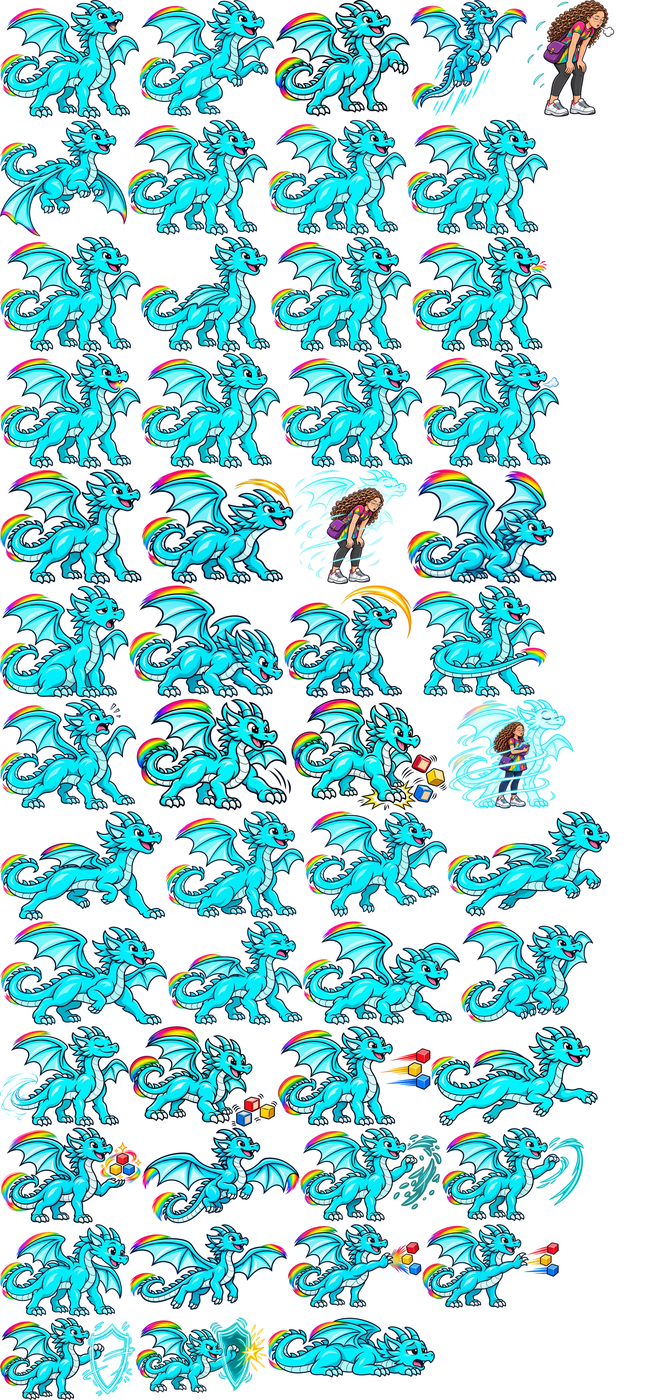
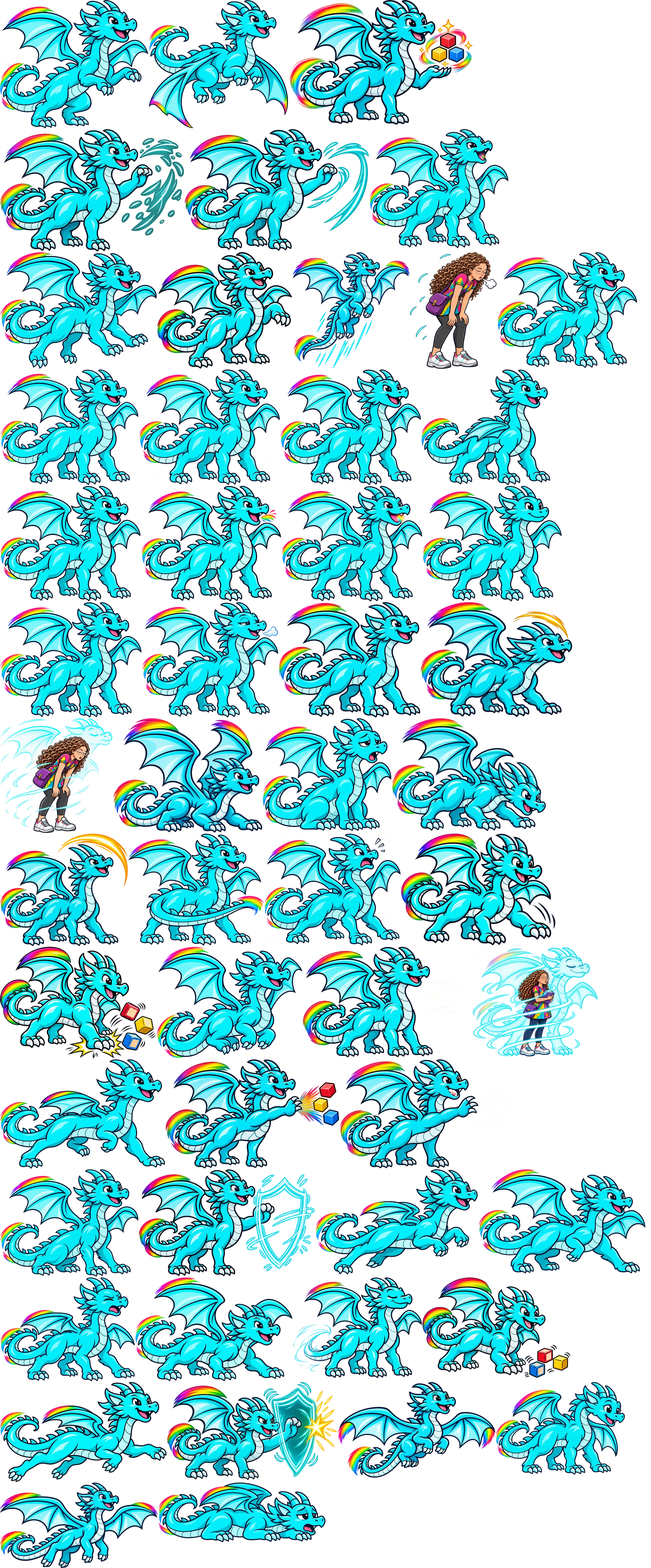
Morris Mayhem: all four controllers work; dragon Block Barrage and jump fixes
- Controllers: Controller 1-4 are now the 1st-4th controllers actually
  plugged in (MM.pads). Browsers can number pads with gaps (e.g. 0, 3, 4, 5),
  and slots 1 and 2 were read from empty browser slots, so only P1 and P4
  could move their pointer or fighter. A controller pressing X can now also
  take over a player slot set to an unplugged controller or a keyboard.
- Siren's dragon: after the blocks launch she shows the empty-handed poses
  (painted blocks erased, tools/erase_blocks.py) so they don't double up with
  the flying blocks; her barrage, shield and jump rows were drawn smaller
  than idle and are now drawn bigger (still at or below 1:1).

Claude-Session: https://claude.ai/code/session_01RfvCk8BiTKNajYvhD14yr3

diff --git a/morris-mayhem/src/js/sprites.js b/morris-mayhem/src/js/sprites.js
@@ -1881,62 +1881,62 @@ MM.SPRITES['siren-dragon'] = {
   standH: 363,
   fscale: {"ent": 0.997, "taunt": 0.997, "win": 0.997, "lose": 0.997},
   frames: {
-    'prism0': [0, 0, 437, 375, 218.9, 375.1],
-    'jump0': [439, 0, 424, 367, 212.0, 367.2],
-    'stomp0': [865, 0, 424, 367, 196.2, 362.5],
-    'soar2': [1291, 0, 367, 367, 183.6, 367.2],
-    'back3': [1660, 0, 272, 367, 136.1, 367.2],
-    'jump1': [0, 377, 399, 366, 199.4, 366.8],
-    'atk0': [401, 377, 440, 365, 220.3, 365.4],
-    'idle1': [843, 377, 435, 364, 217.4, 364.3],
-    'idle3': [1280, 377, 443, 364, 221.8, 363.6],
-    'hurt3': [0, 745, 442, 364, 221.4, 364.0],
-    'atk2': [444, 745, 405, 364, 202.7, 365.0],
-    'atk3': [851, 745, 442, 364, 221.0, 364.3],
-    'prism1': [1295, 745, 440, 364, 220.0, 364.3],
-    'prism2': [0, 1111, 442, 364, 221.0, 364.7],
-    'prism3': [444, 1111, 437, 364, 218.5, 364.3],
-    'idle0': [883, 1111, 445, 363, 222.5, 364.0],
-    'idle2': [1330, 1111, 428, 363, 214.2, 363.2],
-    'horn3': [0, 1477, 445, 363, 270.7, 360.4],
-    'horn1': [447, 1477, 476, 361, 253.4, 358.2],
-    'back2': [925, 1477, 354, 361, 177.1, 361.1],
-    'soar0': [1281, 1477, 469, 360, 234.7, 360.4],
-    'tired1': [0, 1842, 404, 355, 202.3, 355.0],
-    'horn0': [406, 1842, 484, 355, 254.2, 352.4],
-    'horn2': [892, 1842, 402, 354, 223.9, 351.0],
-    'atk1': [1296, 1842, 426, 353, 212.8, 352.8],
-    'hurt0': [0, 2199, 428, 352, 214.2, 352.1],
-    'stomp1': [430, 2199, 485, 352, 273.6, 347.0],
-    'stomp2': [917, 2199, 490, 352, 216.7, 338.0],
-    'back1': [1409, 2199, 395, 346, 174.2, 344.2],
-    'run0': [0, 2553, 519, 344, 259.9, 344.2],
-    'tired3': [521, 2553, 435, 338, 217.4, 338.8],
-    'jump3': [958, 2553, 448, 333, 224.3, 333.4],
-    'run1': [1408, 2553, 510, 331, 255.2, 330.8],
-    'run3': [0, 2899, 525, 328, 262.8, 328.3],
-    'hurt1': [527, 2899, 424, 327, 212.4, 326.5],
-    'hurt2': [953, 2899, 494, 327, 247.3, 326.9],
-    'jump2': [1449, 2899, 417, 318, 208.4, 318.2],
-    'back0': [0, 3229, 405, 317, 207.7, 313.9],
-    'stomp3': [407, 3229, 465, 316, 191.2, 304.9],
-    'barrage3': [874, 3229, 480, 315, 206.6, 312.8],
-    'run2': [1356, 3229, 524, 314, 261.7, 313.9],
-    'barrage0': [0, 3548, 445, 302, 171.7, 299.9],
-    'soar1': [447, 3548, 495, 301, 247.7, 301.0],
-    'shield3': [944, 3548, 445, 296, 171.7, 293.8],
-    'shield0': [1391, 3548, 445, 294, 171.7, 292.7],
-    'tired0': [0, 3852, 406, 292, 203.0, 292.0],
-    'soar3': [408, 3852, 496, 269, 248.0, 269.3],
-    'barrage1': [906, 3852, 420, 264, 146.2, 262.1],
-    'barrage2': [1328, 3852, 430, 264, 156.6, 262.1],
-    'shield1': [0, 4146, 426, 259, 152.3, 256.3],
-    'shield2': [428, 4146, 412, 237, 138.2, 235.4],
-    'tired2': [842, 4146, 526, 188, 263.2, 188.3],
-    'ent': [883, 1111, 445, 363, 222.5, 364.0],
-    'taunt': [843, 377, 435, 364, 217.4, 364.3],
-    'win': [883, 1111, 445, 363, 222.5, 364.0],
-    'lose': [0, 745, 442, 364, 221.4, 364.0]
+    'jump0': [0, 0, 466, 404, 233.2, 403.9],
+    'jump1': [468, 0, 438, 403, 219.4, 403.5],
+    'barrage0': [908, 0, 579, 392, 223.2, 389.8],
+    'shield3': [0, 406, 579, 385, 223.2, 381.9],
+    'shield0': [581, 406, 579, 383, 223.2, 380.5],
+    'prism0': [1162, 406, 437, 375, 218.9, 375.1],
+    'jump3': [0, 793, 493, 367, 246.7, 366.7],
+    'stomp0': [495, 793, 424, 367, 196.2, 362.5],
+    'soar2': [921, 793, 367, 367, 183.6, 367.2],
+    'back3': [1290, 793, 272, 367, 136.1, 367.2],
+    'atk0': [1564, 793, 440, 365, 220.3, 365.4],
+    'idle1': [0, 1162, 435, 364, 217.4, 364.3],
+    'idle3': [437, 1162, 443, 364, 221.8, 363.6],
+    'hurt3': [882, 1162, 442, 364, 221.4, 364.0],
+    'atk2': [1326, 1162, 405, 364, 202.7, 365.0],
+    'atk3': [0, 1528, 442, 364, 221.0, 364.3],
+    'prism1': [444, 1528, 440, 364, 220.0, 364.3],
+    'prism2': [886, 1528, 442, 364, 221.0, 364.7],
+    'prism3': [1330, 1528, 437, 364, 218.5, 364.3],
+    'idle0': [0, 1894, 445, 363, 222.5, 364.0],
+    'idle2': [447, 1894, 428, 363, 214.2, 363.2],
+    'horn3': [877, 1894, 445, 363, 270.7, 360.4],
+    'horn1': [1324, 1894, 476, 361, 253.4, 358.2],
+    'back2': [0, 2259, 354, 361, 177.1, 361.1],
+    'soar0': [356, 2259, 469, 360, 234.7, 360.4],
+    'tired1': [827, 2259, 404, 355, 202.3, 355.0],
+    'horn0': [1233, 2259, 484, 355, 254.2, 352.4],
+    'horn2': [0, 2622, 402, 354, 223.9, 351.0],
+    'atk1': [404, 2622, 426, 353, 212.8, 352.8],
+    'hurt0': [832, 2622, 428, 352, 214.2, 352.1],
+    'stomp1': [1262, 2622, 485, 352, 273.6, 347.0],
+    'stomp2': [0, 2978, 490, 352, 216.7, 338.0],
+    'jump2': [492, 2978, 459, 349, 229.3, 350.1],
+    'barrage3': [953, 2978, 531, 348, 228.3, 345.7],
+    'back1': [1486, 2978, 395, 346, 174.2, 344.2],
+    'run0': [0, 3332, 519, 344, 259.9, 344.2],
+    'barrage1': [521, 3332, 546, 343, 190.0, 340.7],
+    'barrage2': [1069, 3332, 559, 343, 203.6, 340.7],
+    'tired3': [0, 3678, 435, 338, 217.4, 338.8],
+    'shield1': [437, 3678, 554, 336, 198.0, 333.2],
+    'run1': [993, 3678, 510, 331, 255.2, 330.8],
+    'run3': [1505, 3678, 525, 328, 262.8, 328.3],
+    'hurt1': [0, 4018, 424, 327, 212.4, 326.5],
+    'hurt2': [426, 4018, 494, 327, 247.3, 326.9],
+    'back0': [922, 4018, 405, 317, 207.7, 313.9],
+    'stomp3': [1329, 4018, 465, 316, 191.2, 304.9],
+    'run2': [0, 4347, 524, 314, 261.7, 313.9],
+    'shield2': [526, 4347, 535, 308, 179.7, 306.1],
+    'soar1': [1063, 4347, 495, 301, 247.7, 301.0],
+    'tired0': [1560, 4347, 406, 292, 203.0, 292.0],
+    'soar3': [0, 4663, 496, 269, 248.0, 269.3],
+    'tired2': [498, 4663, 526, 188, 263.2, 188.3],
+    'ent': [0, 1894, 445, 363, 222.5, 364.0],
+    'taunt': [0, 1162, 435, 364, 217.4, 364.3],
+    'win': [0, 1894, 445, 363, 222.5, 364.0],
+    'lose': [882, 1162, 442, 364, 221.4, 364.0]
   },
   moves: {"jab": "atk", "side": "atk", "down": "stomp", "up": "horn", "nair": "atk", "fair": "atk", "uair": "horn", "dair": "stomp", "neutral": "prism", "sideSpecial": "barrage", "upSpecial": "soar", "downSpecial": "shield", "counterHit": "shield2", "upRow": "horn", "uairRow": "horn", "riseMid": "soar2", "riseLate": "soar3"},
 };

diff --git a/morris-mayhem/src/js/ui.js b/morris-mayhem/src/js/ui.js
@@ -180,12 +180,16 @@ window.MM = window.MM || {};
         const i = slots.findIndex((s) => s.type === 'human' && s.dev === dv);
         if (i >= 0) {
           moveCursor(i, dv, inp, press);
-          if (dv[0] === 'p') { const pad = navigator.getGamepads()[+dv.slice(1)], bb = (n) => pad && pad.buttons[n] && pad.buttons[n].pressed;
+          if (dv[0] === 'p') { const pad = MM.pads()[+dv.slice(1)], bb = (n) => pad && pad.buttons[n] && pad.buttons[n].pressed;
             const lb = bb(4) || bb(6), rb = bb(5) || bb(7); if (lb && !menuPrev['lb' + dv]) cycle(i, -1); if (rb && !menuPrev['rb' + dv]) cycle(i, 1); menuPrev['lb' + dv] = lb; menuPrev['rb' + dv] = rb; }
           if (press('pause')) $('#fight').click();
         } else if (press('pause') && dv[0] === 'p') $('#fight').click(); // Start = FIGHT from any controller
         else if (press('attack') && dv[0] === 'p') {
-          const free = slots.findIndex((s) => s.type === 'off') >= 0 ? slots.findIndex((s) => s.type === 'off') : slots.findIndex((s) => s.type === 'cpu');
+          // join: an empty slot, else a CPU, else a player slot set to a controller that isn't plugged in, else one set to a keyboard
+          const npads = MM.pads().length, dead = (s) => s.type === 'human' && s.dev[0] === 'p' && +s.dev.slice(1) >= npads;
+          const pick = (fn) => slots.findIndex(fn);
+          let free = pick((s) => s.type === 'off'); if (free < 0) free = pick((s) => s.type === 'cpu'); if (free < 0) free = pick(dead);
+          if (free < 0) free = slots.map((s, k) => k).reverse().find((k) => slots[k].type === 'human' && (slots[k].dev === 'k2' || slots[k].dev === 'k1')) ?? -1;
           if (free >= 0) { slots[free].type = 'human'; slots[free].dev = dv; MM.sfx('select'); save('slots', slots); drawSelect(); }
         }
       } else if (screen === 'title' && press('pause') && dv[0] === 'p') show('select');
@@ -243,10 +247,10 @@ window.MM = window.MM || {};
   function moveCursor(i, dv, inp, press) {
     const c = curs[i]; if (!c) return;
     let dx = inp.x, dy = inp.y;
-    if (dv[0] === 'p') { const pad = navigator.getGamepads()[+dv.slice(1)]; if (pad) { const ax = pad.axes[0] || 0, ay = pad.axes[1] || 0; if (Math.hypot(ax, ay) > 0.2) { dx = ax; dy = ay; } } }
+    if (dv[0] === 'p') { const pad = MM.pads()[+dv.slice(1)]; if (pad) { const ax = pad.axes[0] || 0, ay = pad.axes[1] || 0; if (Math.hypot(ax, ay) > 0.2) { dx = ax; dy = ay; } } }
     const sp = Math.max(6, innerWidth / 110);
     c.x = Math.max(4, Math.min(innerWidth - 4, c.x + dx * sp)); c.y = Math.max(4, Math.min(innerHeight - 4, c.y + dy * sp));
-    const pad = dv[0] === 'p' && navigator.getGamepads()[+dv.slice(1)], a = pad ? !!(pad.buttons[0] && pad.buttons[0].pressed) : false;
+    const pad = dv[0] === 'p' && MM.pads()[+dv.slice(1)], a = pad ? !!(pad.buttons[0] && pad.buttons[0].pressed) : false;
     const aPress = a && !menuPrev['a' + dv]; menuPrev['a' + dv] = a;
     if (aPress || press('attack')) pointAndPick(i, c);
   }

diff --git a/morris-mayhem/src/js/menu-nav.js b/morris-mayhem/src/js/menu-nav.js
@@ -83,8 +83,8 @@ window.MM = window.MM || {};
   // called every frame from the main loop while a menu is showing
   MM.menuNavTick = function (inMatch) {
     if (inMatch || (MM.arenaMaker && MM.arenaMaker.active)) { editing = null; return; } // the Arena Maker reads the pad itself
-    if (MM.capturingInput) { const pads = navigator.getGamepads ? navigator.getGamepads() : []; for (let i = 0; i < 4; i++) { const p = pads[i]; if (p) prev[i] = { dir: 'held', a: true, b: true }; } return; } // Settings is waiting for a button press
-    const pads = navigator.getGamepads ? navigator.getGamepads() : [];
+    if (MM.capturingInput) { const pads = MM.pads(); for (let i = 0; i < 4; i++) { const p = pads[i]; if (p) prev[i] = { dir: 'held', a: true, b: true }; } return; } // Settings is waiting for a button press
+    const pads = MM.pads();
     for (let i = 0; i < 4; i++) {
       const p = pads[i]; if (!p) continue;
       if (MM.cursorDevs && MM.cursorDevs.has('p' + i) && screenEl() && screenEl().id === 'select') continue; // this pad drives a pointer
@@ -112,5 +112,5 @@ window.MM = window.MM || {};
   });
   // a mouse/touch click clears the controller highlight so it doesn't linger
   addEventListener('pointerdown', () => { document.querySelectorAll('.padfocus').forEach((e) => e.classList.remove('padfocus')); if (editing) { editing.classList.remove('editing'); editing = null; } });
-  MM.menuFocusFirst = () => requestAnimationFrame(() => { if (navigator.getGamepads && [...navigator.getGamepads()].some(Boolean)) setFocus(first()); });
+  MM.menuFocusFirst = () => requestAnimationFrame(() => { if (MM.pads().length) setFocus(first()); });
 })();

diff --git a/morris-mayhem/src/js/settings.js b/morris-mayhem/src/js/settings.js
@@ -15,7 +15,7 @@ window.MM = window.MM || {};
   function rows() { return (isPad(dev) ? [] : C.KEY_MOVES).concat(C.ACTIONS); }
   function draw() {
     $('#setDev').innerHTML = `Mapping: <b>${DEV_NAMES[dev]}</b>`;
-    const on = isPad(dev) && navigator.getGamepads && navigator.getGamepads()[+dev[1]];
+    const on = isPad(dev) && MM.pads()[+dev[1]];
     $('#setNote').textContent = isPad(dev)
       ? `Each controller has its own buttons: press the new button on ${DEV_NAMES[dev]}${on ? '' : ' (not plugged in right now)'}. The stick and D-pad always move. Menus always use A to choose and B to go back.`
       : 'Choose Change, then press the key you want. Escape cancels.';
@@ -39,8 +39,8 @@ window.MM = window.MM || {};
       + '<tr><td colspan="4" class="hint">Change any of these in Settings. Every controller can have its own buttons.</td></tr>';
   }
   function padsDown() {
-    const out = new Set(), pads = navigator.getGamepads ? navigator.getGamepads() : [];
-    for (const p of pads) if (p) p.buttons.forEach((b, i) => { if (b.pressed) out.add(p.index + ':' + i); });
+    const out = new Set(), pads = MM.pads();
+    pads.forEach((p, pi) => p.buttons.forEach((b, i) => { if (b.pressed) out.add(pi + ':' + i); }));
     return out;
   }
   function start(action) {

diff --git a/morris-mayhem/src/js/input.js b/morris-mayhem/src/js/input.js
@@ -75,8 +75,15 @@ window.MM = window.MM || {};
     };
   }
 
+  // Controller 1-4 = the 1st-4th controller actually plugged in, in order. Browsers can leave gaps in their own
+  // numbering (after a reconnect, or mixing brands they may sit in slots 0, 3, 4, 5), so slots 0-3 can't be trusted.
+  MM.pads = function () {
+    const raw = navigator.getGamepads ? navigator.getGamepads() : [];
+    const out = []; for (const p of raw) if (p && p.connected !== false) out.push(p);
+    return out.slice(0, 4);
+  };
   function readPad(i) {
-    const pads = navigator.getGamepads ? navigator.getGamepads() : [];
+    const pads = MM.pads();
     const p = pads && pads[i];
     const none = { x: 0, y: 0, jump: false, attack: false, special: false, dodge: false, pause: false };
     if (!p) return none;
@@ -97,7 +104,7 @@ window.MM = window.MM || {};
   };
 
   MM.connectedPads = function () {
-    const pads = navigator.getGamepads ? navigator.getGamepads() : [];
+    const pads = MM.pads();
     const out = [];
     for (let i = 0; i < 4; i++) if (pads[i]) out.push(i);
     return out;

diff --git a/morris-mayhem/tools/add_dragon_hires.py b/morris-mayhem/tools/add_dragon_hires.py
@@ -14,14 +14,20 @@ old = json.load(open(lo_f)); OA = Image.open(lo_a).convert('RGBA')
 ROWS = {'idle': 'idle', 'run': 'run', 'jump': 'jump', 'hurt': 'hurt', 'attack': 'atk', 'breath': 'prism', 'tired': 'tired',
         # second pack (Nov 26): the moves that were still the old small art
         'horn-lift': 'horn', 'block-stomp': 'stomp', 'soar': 'soar', 'shield': 'shield', 'barrage': 'barrage', 'change-back': 'back'}
+# these rows were drawn with a smaller dragon (head-size check against idle): drawn bigger, still sharp
+POSESCALE = {'barrage3': 0.85}  # the last barrage pose stands upright and was drawn bigger than the others
+ROWSCALE = {'barrage': 1.3, 'shield': 1.3, 'jump': 1.1}
 LABEL_BELOW = {'back2', 'barrage0'}  # old poses with a caption plate drawn under them
 cuts = []
 for row, name in ROWS.items():
     for i in range(4):
-        im = Image.open(f'{raw}/siren-dragon-{row}-0{i+1}-hires-v2.png').convert('RGBA')
+        src = f'{raw}/siren-dragon-{row}-0{i+1}-hires-v2.png'
+        if os.path.exists(f'{raw}-blockfree/{os.path.basename(src)}'): src = f'{raw}-blockfree/{os.path.basename(src)}'  # tools/erase_blocks.py
+        im = Image.open(src).convert('RGBA')
         bb = im.split()[3].point(lambda v: 255 if v > 12 else 0).getbbox(); im = im.crop(bb)
-        im = im.resize((round(im.width * S), round(im.height * S)), Image.LANCZOS)
-        cuts.append((f'{name}{i}', im, ((800 - bb[0]) * S, (1100 - bb[1]) * S)))
+        k = S * ROWSCALE.get(row, 1) * POSESCALE.get(f'{name}{i}', 1)
+        im = im.resize((round(im.width * k), round(im.height * k)), Image.LANCZOS)
+        cuts.append((f'{name}{i}', im, ((800 - bb[0]) * k, (1100 - bb[1]) * k)))
 new_names = {n for n, _, _ in cuts}
 keep = [k for k in old if k not in new_names and not k.startswith(('tail', 'wing', 'fxcubes'))]  # old tail/wing swipes: unused, replaced by the hi-res attack row
 for k in keep:

diff --git a/morris-mayhem/tools/erase_blocks.py b/morris-mayhem/tools/erase_blocks.py
@@ -1,0 +1,25 @@
+"""Siren's dragon Block Barrage: the throw/follow-through poses have the blocks painted in, but the game
+throws its own block projectile, so the painted ones are erased (only in front of her paw).
+usage: erase_blocks.py <in.png> <out.png> [detached]  (detached: the blocks have already left her paw, only remove loose pieces)"""
+import sys
+import numpy as np
+from PIL import Image
+from scipy import ndimage as nd
+im = np.array(Image.open(sys.argv[1]).convert('RGBA')).astype(int)
+r, g, b, a = (im[..., k] for k in range(4))
+op = a > 40; lab, n = nd.label(op); sz = nd.sum(op, lab, range(1, n + 1)); main = 1 + int(np.argmax(sz))
+ys, xs = np.where(lab == main); x0, x1 = xs.min(), xs.max()
+front = np.zeros_like(op); front[:, int(x0 + (x1 - x0) * 0.62):] = True
+blk = (a > 40) & (((r > 170) & (g < 120) & (b < 120)) | ((r > 190) & (g > 140) & (b < 90)) | ((b > 150) & (r < 80) & (g < 105)))
+body = (b > 170) & (g > 170) & (r < 170)
+if len(sys.argv) < 4:
+    kill = ((lab != main) & op & front) | (blk & front)
+    kill = nd.binary_dilation(kill, iterations=4) & op & front & ~body
+    im[..., 3][kill] = 0
+for _ in range(2):  # whatever is left in front and no longer attached to her body (block tops, outlines)
+    op = im[..., 3] > 40; lab, n = nd.label(op); sz = nd.sum(op, lab, range(1, n + 1)); main = 1 + int(np.argmax(sz))
+    for i in range(1, n + 1):
+        if i != main:
+            m = lab == i
+            if (m & front).sum() > 0.5 * m.sum(): im[..., 3][m] = 0
+Image.fromarray(im.astype(np.uint8)).save(sys.argv[2])
